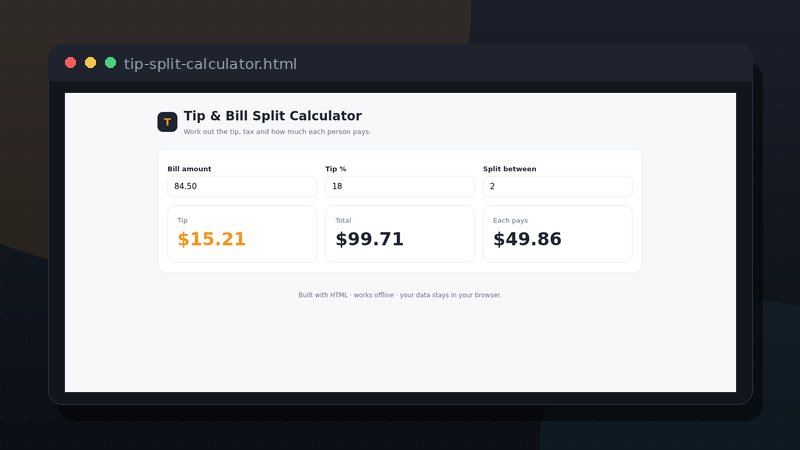
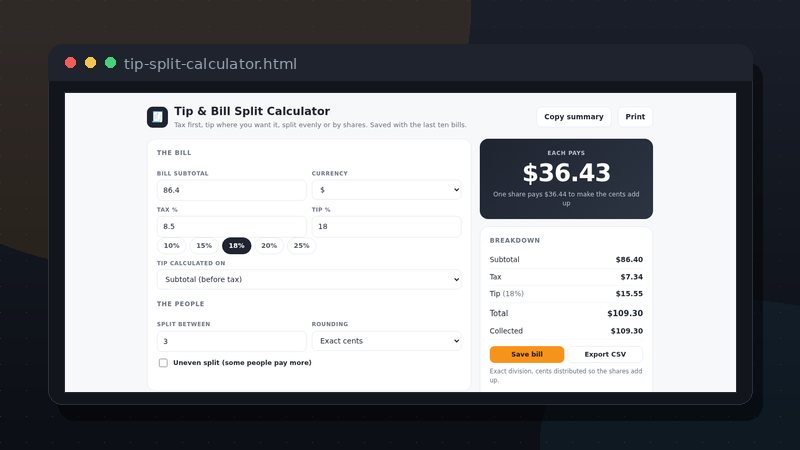
Rebuild five thin apps and six more
- Water, grocery, habits, flashcards, packing, unit converter
- Mortgage amortization with extra payments
- Tip split with tax, shares and rounding
- BMI, BMR, TDEE, macros and weight log
- Recipe scaler with fractions and shopping list
- Gradebook with target-grade math
- Fresh covers, catalog copy, sitemap and feed

diff --git a/assets/products.js b/assets/products.js
@@ -1144,12 +1144,15 @@ window.PRODUCTS = [
     "category": "Money-Finance",
     "priceUsd": 8.99,
     "format": "HTML \u00b7 browser app",
-    "tagline": "Work out any loan payment and full interest in seconds.",
-    "summary": "A browser-based calculator showing monthly payment, total interest, payoff time and a first-year amortization table.",
+    "tagline": "The payment, the payoff date, and what $200 extra really buys.",
+    "summary": "Enter the loan, rate and term to see the monthly payment, total interest and a full amortization schedule. Add an extra monthly payment and the chart shows the shorter payoff and interest saved.",
     "bullets": [
-      "Monthly payment and total interest",
-      "Extra-payment support",
-      "First 12 payments breakdown"
+      "Monthly principal and interest with exact amortization",
+      "Extra monthly payment and interest saved",
+      "Full monthly or yearly schedule",
+      "Balance chart with and without extra",
+      "CSV export of every payment, print view",
+      "Saved locally, no account"
     ],
     "file": "products/Mortgage-and-Loan-Calculator.html"
   },
@@ -1179,12 +1182,15 @@ window.PRODUCTS = [
     "category": "Money-Finance",
     "priceUsd": 8.99,
     "format": "HTML \u00b7 browser app",
-    "tagline": "Work out the tip and split any bill instantly.",
-    "summary": "A quick calculator for tip, total and per-person split \u2014 perfect for restaurants, trips and group expenses.",
+    "tagline": "Split the bill without doing cents in your head.",
+    "summary": "Tax, tip and rounding are separate decisions. Choose whether the tip is on the pre- or post-tax amount, split evenly or by shares, and every person's amount is shown to the cent.",
     "bullets": [
-      "Tip % and total",
-      "Split between any number of people",
-      "Updates live as you type"
+      "Tip on subtotal or subtotal plus tax",
+      "Even split or weighted shares with names",
+      "Round total up, each share up, or exact cents",
+      "Per-person amounts and collected total",
+      "Saved history of the last ten bills",
+      "CSV export, copy summary, print"
     ],
     "file": "products/Tip-and-Split-Calculator.html"
   },
@@ -1195,12 +1201,15 @@ window.PRODUCTS = [
     "category": "Productivity",
     "priceUsd": 8.99,
     "format": "HTML \u00b7 browser app",
-    "tagline": "Track daily habits, streaks and consistency.",
-    "summary": "A browser habit tracker with a 7-day view, automatic streaks and everything saved locally in your browser.",
+    "tagline": "Seven days on screen, thirty days measured.",
+    "summary": "Add the habits that matter, set a weekly target, and tick the grid. It tracks current streak, best streak, weekly progress and a 30-day completion rate without guilt-tripping you.",
     "bullets": [
-      "Streak tracking",
-      "7-day visual grid",
-      "Saves automatically in your browser"
+      "Seven-day grid, tap to mark a day",
+      "Weekly goal per habit with progress bar",
+      "Current and best streak, 30-day rate",
+      "Ten built-in icons, unlimited habits",
+      "CSV export and clean print view",
+      "Offline, single file, saved locally"
     ],
     "file": "products/Habit-Tracker.html"
   },
@@ -1230,12 +1239,15 @@ window.PRODUCTS = [
     "category": "Productivity",
     "priceUsd": 8.99,
     "format": "HTML \u00b7 browser app",
-    "tagline": "Convert length, weight, area, volume and temperature.",
-    "summary": "A fast unit converter covering length, weight, area, volume, time and temperature, all offline in your browser.",
+    "tagline": "Nine categories, exact factors, every unit at once.",
+    "summary": "Length, mass, temperature, volume, area, speed, time, data and pressure. Type a value and see the conversion plus every other unit in the category. Copy the result and it lands in your history.",
     "bullets": [
-      "6 categories, dozens of units",
-      "Temperature conversion",
-      "Instant, offline results"
+      "Nine categories, dozens of units",
+      "Temperature handled with real formulas",
+      "See all units in the category at once",
+      "Swap units, copy result, recent history",
+      "Exact factors where defined",
+      "No ads, no tracking, works offline"
     ],
     "file": "products/Universal-Unit-Converter.html"
   },
@@ -1265,12 +1277,15 @@ window.PRODUCTS = [
     "category": "Health-Wellness",
     "priceUsd": 8.99,
     "format": "HTML \u00b7 browser app",
-    "tagline": "Check your BMI, calorie needs and healthy weight range.",
-    "summary": "A health calculator for BMI and daily maintenance calories, with a healthy weight range based on your height and activity level.",
+    "tagline": "BMI, BMR, TDEE and macros \u2014 with the math shown.",
+    "summary": "Switch between metric and imperial, then get BMI, a healthy weight range, Mifflin-St Jeor BMR, TDEE and calorie targets. Pick a macro split and log weigh-ins to see the trend.",
     "bullets": [
-      "BMI with category",
-      "Daily maintenance calories",
-      "Healthy weight range"
+      "Metric and imperial, switches cleanly",
+      "BMI category and healthy weight range",
+      "Mifflin-St Jeor BMR and activity-adjusted TDEE",
+      "Cut, maintain and gain calorie targets",
+      "Protein, carb and fat grams for four splits",
+      "Weight log with trend chart and CSV export"
     ],
     "file": "products/BMI-and-Calorie-Calculator.html"
   },
@@ -1953,12 +1968,15 @@ window.PRODUCTS = [
     "category": "Food-Recipes",
     "priceUsd": 8.99,
     "format": "HTML \u00b7 browser app",
-    "tagline": "Scale any recipe and get exact amounts.",
-    "summary": "A browser tool that scales ingredient lists by any factor, handling fractions neatly.",
+    "tagline": "Scale a recipe and keep the fractions readable.",
+    "summary": "Set the servings you have and the servings you need. Amounts accept fractions and mixed numbers, scale live, and print as a clean shopping list with the method.",
     "bullets": [
-      "Scale by any factor",
-      "Handles fractions",
-      "Halve or double in one click"
+      "Scale by servings or 0.5\u00d7\u20134\u00d7 shortcuts",
+      "Parses 1/2, 1 1/4 and decimals",
+      "Kitchen-friendly fractions and units",
+      "Add, edit and remove ingredients",
+      "Copy shopping list, CSV export, print",
+      "Autosaved locally, works offline"
     ],
     "file": "products/Recipe-Scaler.html"
   },
@@ -1969,12 +1987,15 @@ window.PRODUCTS = [
     "category": "Teachers-Students",
     "priceUsd": 8.99,
     "format": "HTML \u00b7 browser app",
-    "tagline": "Instant averages and letter grades.",
-    "summary": "A browser grade calculator that computes averages, letter grades and class stats as you type.",
+    "tagline": "Your current grade, and the score still needed.",
+    "summary": "Build weighted categories, add scores, and see the real course grade. The target box calculates exactly what you need on the remaining weight \u2014 including when the answer is 'not possible'.",
     "bullets": [
-      "Instant averages and grades",
-      "Class stats",
-      "Saves your class locally"
+      "Weighted categories and points-based averages",
+      "Current grade, letter and GPA estimate",
+      "Target-grade calculator for remaining work",
+      "Per-assignment percentages and category averages",
+      "CSV export, print, sample gradebook",
+      "Saved offline in the browser"
     ],
     "file": "products/Grade-Calculator.html"
   },
@@ -1985,12 +2006,15 @@ window.PRODUCTS = [
     "category": "Education-Study",
     "priceUsd": 8.99,
     "format": "HTML \u00b7 browser app",
-    "tagline": "Flip cards to study any question list.",
-    "summary": "A browser flashcard app with flip cards, shuffle, and progress for any question/answer list.",
+    "tagline": "Spaced repetition in one file, no account.",
+    "summary": "Create decks, add cards, and study with a simple spaced-repetition scheduler. Rate Again, Good or Easy and the card returns when it is due. Import lines in bulk and export the deck as CSV.",
     "bullets": [
-      "Flip cards to reveal answers",
-      "Shuffle and next/prev",
-      "Paste any card list"
+      "Multiple decks, unlimited cards",
+      "Spaced repetition: again, good, easy",
+      "Keyboard: space to flip, 1/2/3 to rate",
+      "Bulk import one card per line",
+      "Due, new, learned and accuracy stats",
+      "CSV export, offline, no account"
     ],
     "file": "products/Flashcard-Study-App.html"
   },
@@ -2001,12 +2025,15 @@ window.PRODUCTS = [
     "category": "Travel-Lifestyle",
     "priceUsd": 8.99,
     "format": "HTML \u00b7 browser app",
-    "tagline": "Generate and tick off a packing list.",
-    "summary": "A browser packing list generator based on trip days, climate and activities, with tick boxes.",
+    "tagline": "Every trip has its own list, sorted by category.",
+    "summary": "Create a trip, load a template, then edit. Items are grouped by documents, clothes, toiletries, tech, health and misc. Tick as you pack and the progress bar does the counting.",
     "bullets": [
-      "Climate and activity aware",
-      "Tick off as you pack",
-      "Print the list"
+      "One list per trip, with dates and destination",
+      "Four templates: weekend, beach, business, winter",
+      "Six categories, quantities, custom items",
+      "Packed progress and per-category counts",
+      "CSV export and print-friendly layout",
+      "Saved offline for bad airport Wi-Fi"
     ],
     "file": "products/Travel-Packing-List.html"
   },
@@ -2017,12 +2044,15 @@ window.PRODUCTS = [
     "category": "Health-Wellness",
     "priceUsd": 8.99,
     "format": "HTML \u00b7 browser app",
-    "tagline": "Set a goal and track your water each day.",
-    "summary": "A browser water tracker with a daily goal, tap-to-drink glasses and progress bar, saved for today.",
+    "tagline": "A counter with a memory: today, the week, and the streak.",
+    "summary": "Log a glass, a bottle or a custom amount. The page keeps a seven-day chart, a goal streak and a full history, in ml, oz or glasses. Export the lot as CSV.",
     "bullets": [
-      "Daily goal and progress",
-      "Tap to log a glass",
-      "Saves for today"
+      "Quick add a glass, 250 ml, 500 ml or any amount",
+      "Switch between ml, oz and glasses",
+      "Seven-day chart, 7-day average and goal streak",
+      "Editable daily goal and glass size",
+      "Fourteen-day history, CSV export, print",
+      "Offline, single file, saved in the browser"
     ],
     "file": "products/Water-Intake-Tracker.html"
   },
@@ -2049,12 +2079,15 @@ window.PRODUCTS = [
     "category": "Food-Recipes",
     "priceUsd": 8.99,
     "format": "HTML \u00b7 browser app",
-    "tagline": "Add items and tick them off while shopping.",
-    "summary": "A browser shopping list that saves items, lets you tick them off and clears what you've bought.",
+    "tagline": "A list that sorts itself by aisle and adds up as you go.",
+    "summary": "Multiple lists, automatic aisle grouping, quantities and prices. It totals the shop, tracks what is already in the basket, and warns you when you pass your budget. Copy it as text or export CSV.",
     "bullets": [
-      "Tick items off",
-      "Clear bought items",
-      "Saves automatically"
+      "Multiple lists with rename and per-list budget",
+      "Auto-detects the aisle from the item name",
+      "Quantity and price per item, live total",
+      "Check items off, clear checked in one tap",
+      "Copy as text, CSV export, print",
+      "Offline, works in the supermarket dead zone"
     ],
     "file": "products/Grocery-List-App.html"
   },

diff --git a/category-money-finance.html b/category-money-finance.html
@@ -161,8 +161,8 @@
         </div>
         <div class="body">
           <h3>Mortgage &amp; Loan Calculator</h3>
-          <p class="tag">Work out any loan payment and full interest in seconds.</p>
-          <ul class="ticks"><li>Monthly payment and total interest</li><li>Extra-payment support</li><li>First 12 payments breakdown</li></ul>
+          <p class="tag">The payment, the payoff date, and what $200 extra really buys.</p>
+          <ul class="ticks"><li>Monthly principal and interest with exact amortization</li><li>Extra monthly payment and interest saved</li><li>Full monthly or yearly schedule</li><li>Balance chart with and without extra</li></ul>
           <div class="foot">
             <div class="price">$8.99<small>USD &middot; one-time</small></div>
             <div class="cardbtns">
@@ -199,8 +199,8 @@
         </div>
         <div class="body">
           <h3>Tip &amp; Bill Split Calculator</h3>
-          <p class="tag">Work out the tip and split any bill instantly.</p>
-          <ul class="ticks"><li>Tip % and total</li><li>Split between any number of people</li><li>Updates live as you type</li></ul>
+          <p class="tag">Split the bill without doing cents in your head.</p>
+          <ul class="ticks"><li>Tip on subtotal or subtotal plus tax</li><li>Even split or weighted shares with names</li><li>Round total up, each share up, or exact cents</li><li>Per-person amounts and collected total</li></ul>
           <div class="foot">
             <div class="price">$8.99<small>USD &middot; one-time</small></div>
             <div class="cardbtns">

diff --git a/category-health-wellness.html b/category-health-wellness.html
@@ -85,8 +85,8 @@
         </div>
         <div class="body">
           <h3>BMI &amp; Calorie Calculator</h3>
-          <p class="tag">Check your BMI, calorie needs and healthy weight range.</p>
-          <ul class="ticks"><li>BMI with category</li><li>Daily maintenance calories</li><li>Healthy weight range</li></ul>
+          <p class="tag">BMI, BMR, TDEE and macros — with the math shown.</p>
+          <ul class="ticks"><li>Metric and imperial, switches cleanly</li><li>BMI category and healthy weight range</li><li>Mifflin-St Jeor BMR and activity-adjusted TDEE</li><li>Cut, maintain and gain calorie targets</li></ul>
           <div class="foot">
             <div class="price">$8.99<small>USD &middot; one-time</small></div>
             <div class="cardbtns">
@@ -123,8 +123,8 @@
         </div>
         <div class="body">
           <h3>Daily Water Intake Tracker</h3>
-          <p class="tag">Set a goal and track your water each day.</p>
-          <ul class="ticks"><li>Daily goal and progress</li><li>Tap to log a glass</li><li>Saves for today</li></ul>
+          <p class="tag">A counter with a memory: today, the week, and the streak.</p>
+          <ul class="ticks"><li>Quick add a glass, 250 ml, 500 ml or any amount</li><li>Switch between ml, oz and glasses</li><li>Seven-day chart, 7-day average and goal streak</li><li>Editable daily goal and glass size</li></ul>
           <div class="foot">
             <div class="price">$8.99<small>USD &middot; one-time</small></div>
             <div class="cardbtns">

diff --git a/category-productivity.html b/category-productivity.html
@@ -218,8 +218,8 @@
         </div>
         <div class="body">
           <h3>Habit Tracker (Web App)</h3>
-          <p class="tag">Track daily habits, streaks and consistency.</p>
-          <ul class="ticks"><li>Streak tracking</li><li>7-day visual grid</li><li>Saves automatically in your browser</li></ul>
+          <p class="tag">Seven days on screen, thirty days measured.</p>
+          <ul class="ticks"><li>Seven-day grid, tap to mark a day</li><li>Weekly goal per habit with progress bar</li><li>Current and best streak, 30-day rate</li><li>Ten built-in icons, unlimited habits</li></ul>
           <div class="foot">
             <div class="price">$8.99<small>USD &middot; one-time</small></div>
             <div class="cardbtns">
@@ -256,8 +256,8 @@
         </div>
         <div class="body">
           <h3>Universal Unit Converter</h3>
-          <p class="tag">Convert length, weight, area, volume and temperature.</p>
-          <ul class="ticks"><li>6 categories, dozens of units</li><li>Temperature conversion</li><li>Instant, offline results</li></ul>
+          <p class="tag">Nine categories, exact factors, every unit at once.</p>
+          <ul class="ticks"><li>Nine categories, dozens of units</li><li>Temperature handled with real formulas</li><li>See all units in the category at once</li><li>Swap units, copy result, recent history</li></ul>
           <div class="foot">
             <div class="price">$8.99<small>USD &middot; one-time</small></div>
             <div class="cardbtns">

diff --git a/category-food-recipes.html b/category-food-recipes.html
@@ -161,8 +161,8 @@
         </div>
         <div class="body">
           <h3>Recipe Scaler (Web)</h3>
-          <p class="tag">Scale any recipe and get exact amounts.</p>
-          <ul class="ticks"><li>Scale by any factor</li><li>Handles fractions</li><li>Halve or double in one click</li></ul>
+          <p class="tag">Scale a recipe and keep the fractions readable.</p>
+          <ul class="ticks"><li>Scale by servings or 0.5×–4× shortcuts</li><li>Parses 1/2, 1 1/4 and decimals</li><li>Kitchen-friendly fractions and units</li><li>Add, edit and remove ingredients</li></ul>
           <div class="foot">
             <div class="price">$8.99<small>USD &middot; one-time</small></div>
             <div class="cardbtns">
@@ -180,8 +180,8 @@
         </div>
         <div class="body">
           <h3>Grocery List App</h3>
-          <p class="tag">Add items and tick them off while shopping.</p>
-          <ul class="ticks"><li>Tick items off</li><li>Clear bought items</li><li>Saves automatically</li></ul>
+          <p class="tag">A list that sorts itself by aisle and adds up as you go.</p>
+          <ul class="ticks"><li>Multiple lists with rename and per-list budget</li><li>Auto-detects the aisle from the item name</li><li>Quantity and price per item, live total</li><li>Check items off, clear checked in one tap</li></ul>
           <div class="foot">
             <div class="price">$8.99<small>USD &middot; one-time</small></div>
             <div class="cardbtns">

diff --git a/category-travel-lifestyle.html b/category-travel-lifestyle.html
@@ -104,8 +104,8 @@
         </div>
         <div class="body">
           <h3>Travel Packing List (Web)</h3>
-          <p class="tag">Generate and tick off a packing list.</p>
-          <ul class="ticks"><li>Climate and activity aware</li><li>Tick off as you pack</li><li>Print the list</li></ul>
+          <p class="tag">Every trip has its own list, sorted by category.</p>
+          <ul class="ticks"><li>One list per trip, with dates and destination</li><li>Four templates: weekend, beach, business, winter</li><li>Six categories, quantities, custom items</li><li>Packed progress and per-category counts</li></ul>
           <div class="foot">
             <div class="price">$8.99<small>USD &middot; one-time</small></div>
             <div class="cardbtns">

diff --git a/category-teachers-students.html b/category-teachers-students.html
@@ -161,8 +161,8 @@
         </div>
         <div class="body">
           <h3>Grade Calculator (Web)</h3>
-          <p class="tag">Instant averages and letter grades.</p>
-          <ul class="ticks"><li>Instant averages and grades</li><li>Class stats</li><li>Saves your class locally</li></ul>
+          <p class="tag">Your current grade, and the score still needed.</p>
+          <ul class="ticks"><li>Weighted categories and points-based averages</li><li>Current grade, letter and GPA estimate</li><li>Target-grade calculator for remaining work</li><li>Per-assignment percentages and category averages</li></ul>
           <div class="foot">
             <div class="price">$8.99<small>USD &middot; one-time</small></div>
             <div class="cardbtns">

diff --git a/category-education-study.html b/category-education-study.html
@@ -85,8 +85,8 @@
         </div>
         <div class="body">
           <h3>Flashcard Study App</h3>
-          <p class="tag">Flip cards to study any question list.</p>
-          <ul class="ticks"><li>Flip cards to reveal answers</li><li>Shuffle and next/prev</li><li>Paste any card list</li></ul>
+          <p class="tag">Spaced repetition in one file, no account.</p>
+          <ul class="ticks"><li>Multiple decks, unlimited cards</li><li>Spaced repetition: again, good, easy</li><li>Keyboard: space to flip, 1/2/3 to rate</li><li>Bulk import one card per line</li></ul>
           <div class="foot">
             <div class="price">$8.99<small>USD &middot; one-time</small></div>
             <div class="cardbtns">
